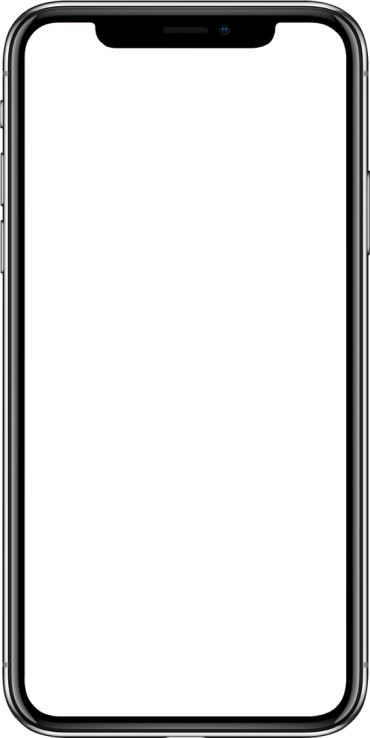
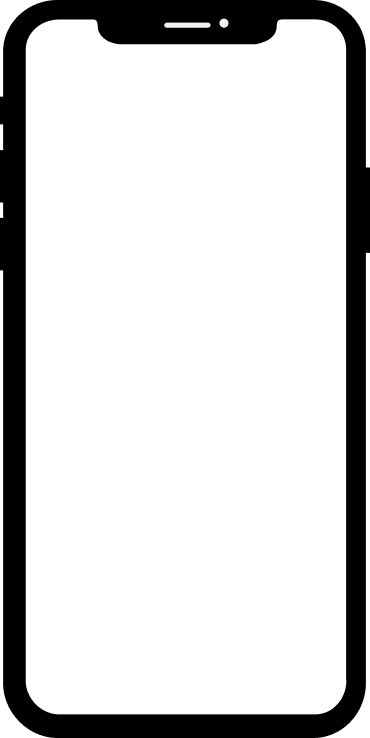
Update the layout, replace some images

Changed region(s): [[0.0, 0.0, 1.0, 1.0]]

diff --git a/index.html b/index.html
@@ -32,7 +32,6 @@
   <meta name="apple-mobile-web-app-status-bar-style" content="#151515">
 
   <!-- vendor styles -->
-  <link rel="stylesheet" href="https://unpkg.com/aos@next/dist/aos.css">
 
   <!-- local styles -->
   <link rel="stylesheet" href="assets/css/styles.css" rel="preload" as="style">
@@ -41,7 +40,6 @@
   <!-- vendor scripts -->
   <script type="text/javascript" src="https://cdn.jsdelivr.net/npm/jquery@3.3.1/dist/jquery.min.js"></script>
   <script type="text/javascript" src="https://cdn.jsdelivr.net/npm/slick-carousel@1.8.1/slick/slick.min.js"></script>
-  <script type="text/javascript" src="https://unpkg.com/aos@next/dist/aos.js"></script>
 
   <!-- local scripts -->
   <script type="text/javascript" src="assets/js/index.js"></script>
@@ -56,35 +54,31 @@
         </a>
         <div class="navbar__divider"></div>
         <a href='#intro' class="navbar__item">About</a>
-        <a href='#idioms' class="navbar__item">Apps</a>
-        <a href='#footer' class="navbar__item">Contact</a>
+        <a href='#idioms' class="navbar__item">Our apps</a>
+        <a href='#contact' class="navbar__item">Contact</a>
       </div>
     </div>
   </header>
 
   <section id='intro'>
     <div class='container'>
-      <div class='section__flex' data-aos="fade-right">
-        <div>
-          <h1 class='title--bold'>Hey, we are <span class='bolder'>Basenji&nbsp;Apps</span>.</h1>
-          <p class='text--grey'>A team of experts from <span class='bolder'>Minsk, Belarus,</span> who focused on development of mobile apps for education and health improvement.</p>
-          <p class='text--grey'>We strive to create products that contribute to overall quality of life of our users.</p>
-          <a href='#idioms' class='button background-pink mt30'>Check out our apps →</a>
-        </div>
-        <div class='section__background'>
-          <img src="assets/images/self/intro_background.png" srcset="assets/images/self/intro_background.png 1x, assets/images/self/intro_background@2x.png 2x, assets/images/self/intro_background@3x.png 3x">
-        </div>
+      <div style='text-align: center; max-width: 900px; margin: 0 auto;'>
+        <h1 class='title--bold'>Hey, we are <span class='bolder'>Basenji&nbsp;Apps</span>.</h1>
+        <p class='text--grey'>A team of experts from <span class='bolder'>Minsk, Belarus,</span> who focused on development of mobile apps for education and health improvement.</p>
+        <p class='text--grey'>We strive to create products that contribute to overall quality of life of our users.</p>
+        <a href='#idioms' class='button background-pink mt30'>Check out our apps →</a>
+      </div>
       </div>
     </div>
   </section>
 
   <section id='idioms'>
-    <div class='section__app-icon' data-aos="fade-left" data-aos-offset="100">
+    <div class='section__app-icon'>
       <img src="assets/images/self/idioms_icon.png" srcset="assets/images/self/idioms_icon.png 1x, assets/images/self/idioms_icon@2x.png 2x, assets/images/self/idioms_icon@3x.png 3x">
     </div>
     <div class='container'>
       <div class='section__grid'>
-        <div class='s-col-1 phone-slider' data-aos="fade-right">
+        <div class='s-col-1 phone-slider'>
           <img class='phone-slider__frame' draggable="false" src="assets/images/self/phone_frame.png" srcset="assets/images/self/phone_frame.png 1x, assets/images/self/phone_frame@2x.png 2x, assets/images/self/phone_frame@3x.png 3x">
           <div class='phone-slider__screenshots js-phone-slider'>
             <img src="assets/images/self/screenshot_1.png" srcset="assets/images/self/screenshot_1.png 1x, assets/images/self/screenshot_1@2x.png 2x, assets/images/self/screenshot_1@3x.png 3x">
@@ -96,7 +90,7 @@
           </div>
           <div class='text--subtitle'>← swipe left and right →</div>
         </div>
-        <div class='s-col-2' data-aos="fade-left">
+        <div class='s-col-2'>
           <p class='text--bold'>An app to learn new English idioms every day.</p>
           <p class='text--bold'>We use the method of <span class='text--pink'>spaced repetition</span> and <span class='text--pink'>gamification techniques</span> to help users remember the material with ease.</p>
           <div class='mt8'>
@@ -106,7 +100,11 @@
         </div>
       </div>
     </div>
-
+  </section>
+  <section id="contact">
+    <div class='container'>
+      <h2 class='title--bold'>Drop us a line: <a href="mailto:team@basenjiapps.com">team@basenjiapps.com.</a></h2>
+    </div>
   </section>
 
   <footer id='footer'>

diff --git a/assets/css/styles.css b/assets/css/styles.css
@@ -1,4 +1,4 @@
-@import url('https://fonts.googleapis.com/css?family=Roboto:400,500,700');
+@import url('https://fonts.googleapis.com/css?family=Sarabun:400,500,700');
 
 /* basic */
 html, body {
@@ -11,7 +11,7 @@ body {
   font-weight: normal;
   line-height: normal;
   color: #151515;
-  font-family: 'Roboto', sans-serif;
+  font-family: 'Sarabun', sans-serif;
 }
 
 * {
@@ -21,6 +21,8 @@ body {
 
 a {
   text-decoration: none;
+  color: #EF5C71;
+  transition: all 0.1s ease-out;
 }
 
 h1 {
@@ -47,7 +49,7 @@ header {
 }
 
 footer {
-  background: #2B2A3A;
+  background: #0b1633;
   width: 100%;
 }
 
@@ -69,14 +71,14 @@ footer {
 }
 
 header .container {
-  padding: 5px 20px;
+  padding: 8px 20px;
 }
 
 
 /* navbar */
 .navbar__logo {
   display: inline-block;
-  height: 30px;
+  height: 36px;
   vertical-align: middle;
 }
 
@@ -89,17 +91,23 @@ header .container {
   height: 36px;
   line-height: 36px;
   color: #151515;
-  font-size: 14px;
-  letter-spacing: -0.02em;
-
+  font-size: 15px;
+  transition: all 0.2s ease-out;
   font-weight: 500;
   padding: 0 10px;
+  border-radius: 5px;
+}
+
+.navbar__item:hover {
+  color: white;
+  background: #000;
+  animation: all 0.3 ease-out;
 }
 
 .navbar__divider {
   display: inline-block;
   margin: 0 10px 0 20px;
-  width: 1px;
+  width: 2px;
   height: 24px;
   background: rgba(0, 0, 0, 0.18);
   vertical-align: middle;
@@ -108,7 +116,7 @@ header .container {
 
 /* sections */
 section#intro {
-  padding-bottom: 100px;
+  padding-bottom: 200px;
 }
 
 section#idioms {
@@ -231,10 +239,13 @@ section#idioms {
 
 .footer__item {
   display: block;
-
   font-size: 14px;
   color: #748088 !important;
   margin-top: 15px;
+}
+
+a.footer__item:hover {
+  color: #fff !important;
 }
 
 
@@ -245,10 +256,14 @@ section#idioms {
   color: #2B293D;
 }
 
+.title--bold a:hover {
+  text-decoration: underline;
+}
+
 .text--grey {
   line-height: 48px;
   font-size: 32px;
-  color: #7F7F7F;
+  color: #000;
   margin: 30px 0px;
 }
 
@@ -301,17 +316,42 @@ section#idioms {
 }
 
 .background-pink {
+  border: 2px solid #fff;
   background: #EF5C71;
 }
 
+.background-pink:hover {
+  border: 2px solid #EF5C71;
+  background: #fff;
+  color: #EF5C71;
+}
+
 .background-idioms-pink {
+  border: 2px solid #fff;
   background: #E83E8C;
 }
 
+.background-idioms-pink:hover {
+  border: 2px solid #E83E8C;
+  background: #fff;
+  color: #E83E8C;
+}
+
 .background-black {
+  border: 2px solid #fff;
   background: #2B293D;
+}
+
+.background-black:hover {
+  border: 2px solid #2B293D;
+  background: #fff;
+  color: #2B293D;
 }
 
 .text--pink {
   color: #E83E8C;
+}
+
+.pull-right {
+  float: right;
 }

diff --git a/assets/js/index.js b/assets/js/index.js
@@ -1,9 +1,4 @@
 $(document).ready(function() {
-  AOS.init({
-    duration: 800,
-    mirror: true
-  });
-
   $(".js-phone-slider").slick({
     infinite: true,
     dots: false,

diff --git a/assets/css/styles-responsive.css b/assets/css/styles-responsive.css
@@ -69,6 +69,10 @@
     padding: 70px 30px 35px 30px;
   }
 
+  #contact .container {
+    padding: 70px 30px 35px 30px;
+  }
+
   .container--wide {
     padding: 10px 20px;
   }
